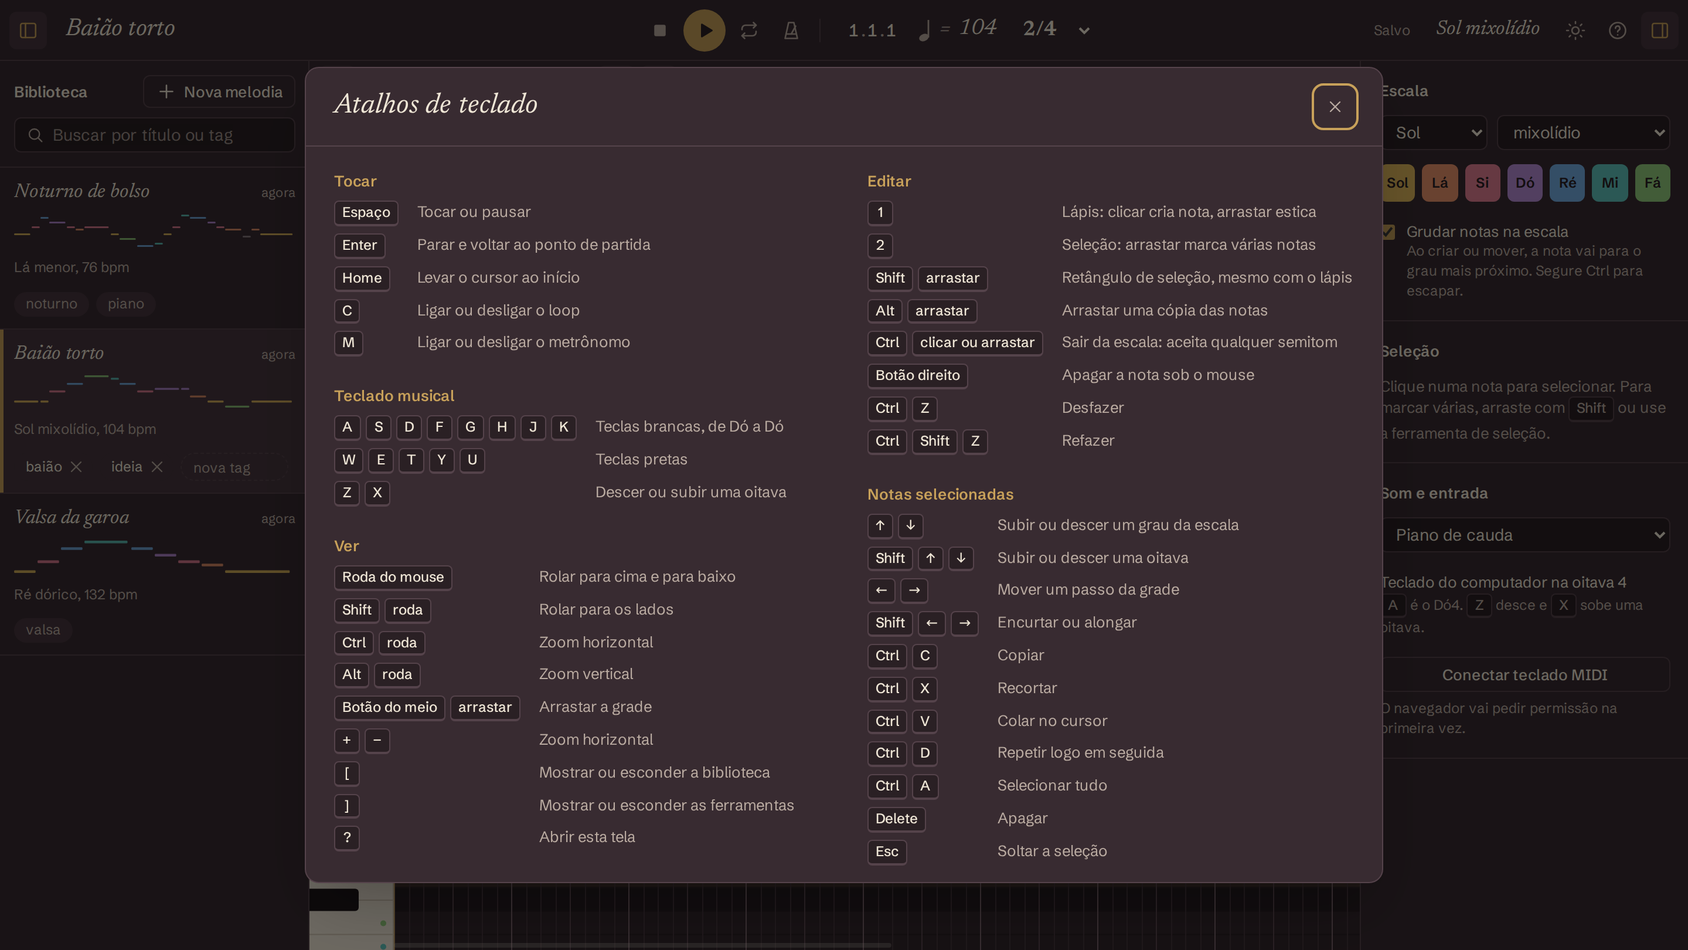
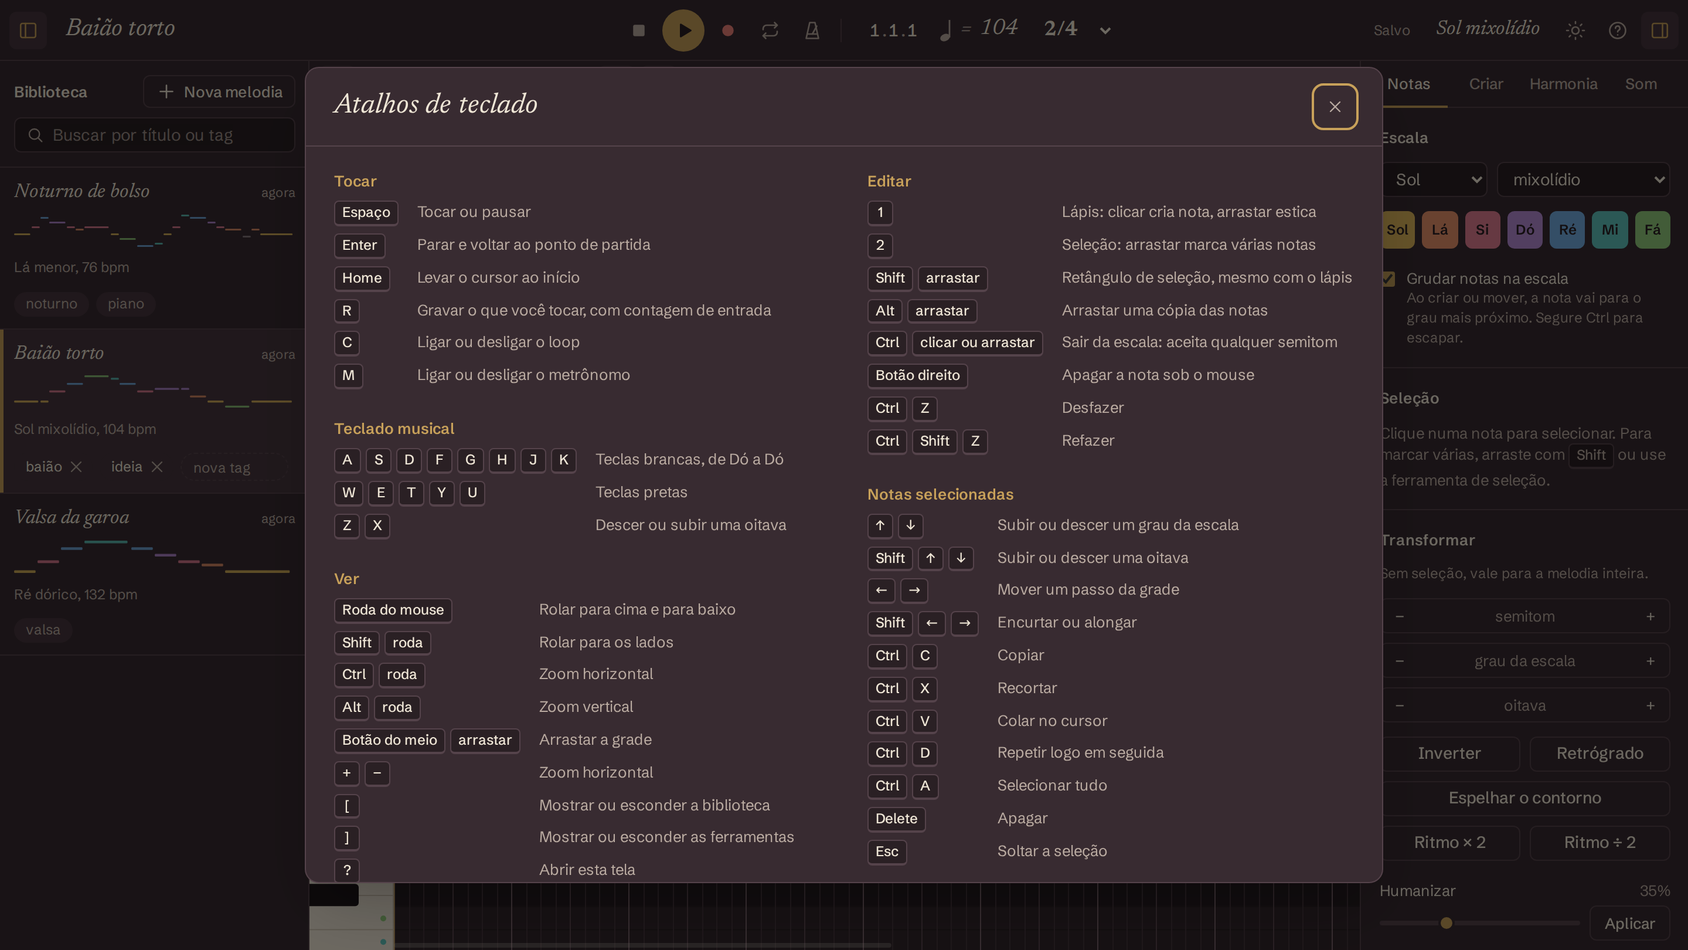
Fase 2 concluída: README, prints e CLAUDE.md atualizados
- README em inglês e português descrevem as ferramentas de criação
- Print principal com acordes, partitura e análise; print da aba Criar
- CLAUDE.md com a arquitetura nova, regras e armadilhas da fase

diff --git a/tests/visual/prints.py b/tests/visual/prints.py
@@ -67,18 +67,26 @@ with sync_playwright() as p:
         page.evaluate(LOAD, m)
         page.wait_for_timeout(900)  # autosave grava na biblioteca
 
-    # 1. tema escuro, tocando: cursor, nota destacada e tecla acesa
-    center_on(page, 70)
-    page.mouse.click(700, 760)  # um clique fora das notas libera o áudio
+    # 1. tema escuro, tocando com acordes e partitura: cursor, tecla acesa, cifra e figura da vez
+    page.mouse.click(700, 500)  # um clique libera o áudio
     page.keyboard.press("Control+z")
     page.wait_for_function("window.__melodias.transport.getState().loadingInstrument === null", timeout=15000)
     page.keyboard.press("Escape")
-    page.mouse.move(1300, 780)
+    page.get_by_role("tab", name="Harmonia").click()
+    page.get_by_role("button", name="Sugerir acordes para a melodia").click()
+    page.get_by_role("button", name="Partitura").click()
+    page.wait_for_selector(".score svg .abcjs-note", timeout=15000)
+    center_on(page, 70)
+    page.mouse.move(1300, 500)
     page.keyboard.press("Space")
     page.wait_for_function("window.__melodias.engine.position() > 480 * 9.72", timeout=20000)
     page.screenshot(path=str(OUT / "estudio-escuro.png"))
     page.keyboard.press("Enter")
     page.keyboard.press("Enter")
+    page.get_by_role("button", name="Partitura").click()
+    page.get_by_role("button", name="Tirar os acordes").click()
+    page.get_by_role("tab", name="Notas").click()
+    center_on(page, 70)
     page.wait_for_timeout(300)
 
     # 2. tema claro, com um trecho selecionado
@@ -90,14 +98,16 @@ with sync_playwright() as p:
     page.evaluate("window.__melodias.doc.getState().select([])")
     page.get_by_label("Alternar tema claro e escuro").click()
 
-    # 3. outra escala: as linhas e as cores acompanham o modo
+    # 3. aba Criar: gerador de ideias, variações, gravar e cantarolar
     page.locator("aside[aria-label=Biblioteca] li", has_text="Baião torto").click()
     page.wait_for_timeout(400)
     center_on(page, 71)
+    page.get_by_role("tab", name="Criar").click()
     x = page.evaluate("window.__roll.pointFor(480 * 2.3, 77)")
     page.mouse.move(x["x"], x["y"])
     page.wait_for_timeout(300)
-    page.screenshot(path=str(OUT / "sol-mixolidio.png"))
+    page.screenshot(path=str(OUT / "criar.png"))
+    page.get_by_role("tab", name="Notas").click()
 
     # 4. atalhos
     page.keyboard.press("?")

diff --git a/CLAUDE.md b/CLAUDE.md
@@ -8,7 +8,7 @@ Converse com o usuário em português. Textos da interface também em português
 
 ## Estado atual
 
-Fase 1 concluída: piano roll editável, snap na escala, teclado virtual, teclado do computador, Web MIDI, transport com loop e metrônomo, desfazer/refazer, atalhos e biblioteca com autosave. Próxima: Fase 2 (ferramentas de criação).
+Fases 1 e 2 concluídas. Além do piano roll, do transport e da biblioteca, já existem: transformações, gravar tocando, cantarolar (ao vivo e por transcrição), gerador de ideias e variações, acordes com acompanhamento, análise e partitura. Próxima: Fase 3 (exportar, compartilhar, extras).
 
 ## Stack
 
@@ -17,7 +17,8 @@ Fase 1 concluída: piano roll editável, snap na escala, teclado virtual, teclad
 - Tone.js: motor de áudio, transport, BPM, metrônomo, sintetizadores, `Tone.Sampler` para o piano.
 - tonal: teoria musical (notas, intervalos, escalas, modos, acordes).
 - Dexie (IndexedDB): biblioteca local de melodias.
-- Fases seguintes: @tonejs/midi, abcjs, pitchy, @spotify/basic-pitch (lazy), @magenta/music (opcional, Web Worker + lazy).
+- abcjs: partitura. pitchy: altura ao vivo pelo microfone. @spotify/basic-pitch (com TensorFlow.js): transcrição de áudio. abcjs e basic-pitch entram por `import()` dinâmico, só quando a pessoa abre a partitura ou transcreve.
+- Fase 3: @tonejs/midi; @magenta/music opcional (Web Worker + lazy).
 - Vitest para lógica musical. Playwright (Python, via skill `webapp-testing`) para conferência visual.
 - Gerenciador de pacotes: npm.
 
@@ -60,19 +61,26 @@ Ficam em `.claude/skills/` e valem para o projeto inteiro:
 ```
 src/
   music/   teoria e operações sobre notas: funções puras, sem React nem Tone
-           types (PPQ, Note, Melody), time (grade, snap, quantização), scale (escala, graus, nomes), notes
+           types, time (grade, quantização), scale (escala, graus, nomes), notes,
+           transform, generate (ideias e variações), chords (tríades, sugestão, acompanhamento),
+           analysis (tonalidade, intervalos), abc (partitura), pitchTrack (voz → notas)
   audio/   engine.ts: o único arquivo que importa o Tone.js
+           mic.ts (microfone + pitchy, contexto próprio só de análise), transcribe.ts (Basic Pitch, lazy)
   input/   teclado do computador (keyboard), Web MIDI (midi, midiMessage)
   store/   Zustand
-           doc (melodia, seleção, histórico), view (ferramenta, grade, zoom, tema; persiste em localStorage),
-           transport (tocando, cursor, loop, metrônomo), library (Dexie + autosave),
-           commands (ações que cruzam stores), bindAudio (estado → motor de áudio)
+           doc (melodia, seleção, histórico), view (preferências; persiste em localStorage),
+           transport (tocando, gravando, cursor, loop), library (Dexie + autosave), hum (microfone),
+           commands e ideas (ações que cruzam stores), recorder (notas ao vivo → melodia),
+           bindAudio (estado → motor de áudio)
   db/      Dexie
-  ui/      componentes React, styles.css (tokens), shortcuts.ts
+  ui/      componentes React, styles.css (tokens), shortcuts.ts, ScorePanel (abcjs)
     pianoroll/  coords (tick ↔ x, altura ↔ y), render (desenho), controller (gestos e laço de quadros), palette
+    tools/      abas do painel de ferramentas: Notas, Criar, Harmonia, Som
 public/
-  samples/piano/  Salamander Grand Piano, CC BY 3.0 (ver LICENCA.md na pasta)
-tests/visual/     scripts Playwright; common.py tem os helpers
+  samples/piano/        Salamander Grand Piano, CC BY 3.0 (ver LICENCA.md na pasta)
+  models/basic-pitch/   modelo de transcrição da Spotify, Apache 2.0
+tests/visual/           roteiros Playwright numerados; common.py tem os helpers;
+                        prints.py gera os prints do README; prod_smoke.py confere o build de produção
 ```
 
 Regras:
@@ -83,6 +91,9 @@ Regras:
 - O piano roll é um controlador fora do React (`PianoRollController`): lê os stores com `getState`/`subscribe` e redesenha por `requestAnimationFrame` só quando algo mudou. Não passe notas, rolagem nem cursor por props ou estado do React.
 - Edições que entram no desfazer passam por `useDoc.edit` (ou `beginGesture` / `live` / `commitGesture` durante um arrasto). Título, tags e instrumento usam `setMeta` e ficam fora do histórico.
 - Em modo dev, `window.__melodias` (stores e engine) e `window.__roll` (controlador, com `pointFor(tick, pitch)`) existem para os testes visuais.
+- Toda nota tocada ao vivo passa por `engine.noteOn` / `noteOff`: é o que acende a tecla e o que o gravador (`store/recorder.ts`) escuta. A voz usa `noteOn(pitch, vel, true)`, que faz tudo isso sem soar.
+- O gravador é ligado antes do `bindAudio` no `App`: ao parar, ele precisa fechar as notas enquanto o transport ainda sabe a posição.
+- Acordes (`melody.chords`) entram no desfazer junto com as notas. O acompanhamento é derivado deles em `music/chords.ts` (`backingNotes`) e tocado por uma voz separada do motor.
 
 ## Modelo de dados
 
@@ -129,13 +140,20 @@ Direção aprovada: o interior de um piano. Interface quieta e quase monocromát
 - Com "grudar na escala" ligado, criar e mover andam por graus; `Ctrl` (ou `Cmd`) deixa a nota sair da escala. A grade de tempo tem o próprio botão.
 - `Alt`+arrastar leva uma cópia. Botão direito apaga. Botão do meio arrasta a grade.
 - Roda: rola; `Shift`+roda: lados; `Ctrl`+roda: zoom horizontal; `Alt`+roda: zoom vertical.
-- Atalhos de letra não podem colidir com as teclas que tocam notas (A W S E D F T G Y H U J K O L P ; e Z X para oitava). Livres hoje: Q R I B N V.
+- Atalhos de letra não podem colidir com as teclas que tocam notas (A W S E D F T G Y H U J K O L P ; e Z X para oitava). Em uso: C (loop), M (metrônomo), R (gravar). Livres: Q I B N V.
+- Gravando, a grade não aceita edição e o teclado só toca notas e controla o transport.
+- A partitura arredonda tudo para semicolcheias: tercinas aparecem aproximadas.
 
 ## Armadilhas já encontradas
 
 - Tone: para tocar a partir de um tick, use `transport.start(undefined, "<tick>i")`. A sequência stop → `ticks = n` → start no mesmo instante às vezes parte do zero.
 - Tone: `transport.ticks` lido direto está adiantado pelo lookahead; a posição do que se ouve é `getTicksAtTime(Tone.immediate())`.
 - Testes Playwright: depois de qualquer coisa que mova o cursor (colar, stop), a grade rola com animação. Espere uns 500 ms antes de calcular um ponto com `pointFor`.
+- Testes Playwright: um clique fora da área visível da grade cai em outro elemento (painel, botão) sem avisar. Mantenha as notas de teste dentro do que cabe na tela.
+- Autosave compara `updatedAt`; por isso o carimbo sempre avança (`touch` em `store/doc.ts`), mesmo com duas mudanças no mesmo milissegundo.
+- Foco: depois de clicar em botão, lista, caixa de seleção ou controle deslizante, o foco é devolvido ao estúdio (`releaseFocus` em `shortcuts.ts`). Sem isso os atalhos param de responder.
+- abcjs trata o clique no SVG inteiro e pinta de vermelho a figura clicada; usamos `selectionColor: 'currentColor'`.
+- Microfone nos testes: `studio(fake_mic=...)` faz o Chromium entregar um WAV como microfone, em laço.
 
 ## Referências estudadas
 
@@ -153,7 +171,7 @@ Direção aprovada: o interior de um piano. Interface quieta e quase monocromát
 - Undo/redo completo e atalhos de teclado, com tela de atalhos em `?`.
 - Biblioteca: salvar, renomear, duplicar, deletar, buscar, tags, autosave.
 
-### Fase 2: ferramentas de criação
+### Fase 2: ferramentas de criação (concluída)
 - Gravar tocando, com metrônomo, contagem e quantização de força ajustável.
 - Cantarolar para criar: ao vivo com pitchy; gravar e transcrever com basic-pitch.
 - Transformações na seleção: transpor (cromático e diatônico), inverter, retrógrado, aumentar/diminuir ritmo, humanizar, espelhar contorno.

diff --git a/README.pt-BR.md b/README.pt-BR.md
@@ -4,7 +4,7 @@ Um estúdio de melodias que roda no navegador. Rascunhe uma ideia no piano roll,
 
 [English](README.md)
 
-![O estúdio tocando uma melodia em Lá menor: notas coloridas por grau da escala, o cursor, uma tecla acesa no teclado lateral e a biblioteca à esquerda](docs/screenshots/estudio-escuro.png)
+![O estúdio tocando uma melodia em Lá menor: notas coloridas por grau da escala, a faixa de cifras com o acorde da vez destacado, a tecla acesa no teclado lateral, a partitura acompanhando e a biblioteca à esquerda](docs/screenshots/estudio-escuro.png)
 
 ## O que tem de diferente
 
@@ -13,20 +13,42 @@ Um estúdio de melodias que roda no navegador. Rascunhe uma ideia no piano roll,
 - **O tempo é guardado em ticks, nunca em segundos.** Mude o andamento ou o compasso e nada quebra.
 - **Funciona offline.** Os samples de piano e as fontes vêm junto com o app.
 
-## O que já dá para fazer
+## O que dá para fazer
+
+**Escrever**
 
 - Piano roll em canvas: clique para criar a nota, arraste para esticar, mova, redimensione, selecione por retângulo, copie e cole, repita, apague, dê zoom nos dois eixos, role com suavidade.
 - 12 tonalidades e 13 escalas e modos (maior, menor, modos gregos, menor harmônica e melódica, pentatônicas, blues, cromática).
 - Grade de quantização: 1/4, 1/8, 1/16, 1/32 e tercinas.
-- Toque com o mouse no teclado lateral, com o teclado do computador (`A S D F…`, como nas DAWs) ou com um teclado MIDI via Web MIDI.
-- Transport: tocar, pausar, parar, região de loop (arraste na régua), andamento, compasso, metrônomo, cursor animado.
 - Desfazer e refazer completos, e a lista de atalhos na tecla `?`.
+
+**Tocar e capturar**
+
+- Toque com o mouse no teclado lateral, com o teclado do computador (`A S D F…`, como nas DAWs) ou com um teclado MIDI via Web MIDI.
+- Grave o que você toca, com contagem de entrada, e quantize depois com força ajustável.
+- Cantarole ou assobie: o app mostra a nota que você está cantando e a afinação, e grava na grade. Ou grave uma frase inteira e deixe o [Basic Pitch](https://github.com/spotify/basic-pitch-ts) transcrever. O modelo roda no navegador; o áudio não sai da sua máquina.
+
+**Achar ideias**
+
+- Gerador de ideias: uma melodia nova dentro da escala, moldada por contorno (arco, sobe, desce, vale, livre), densidade rítmica, tamanho dos saltos e nota de repouso. Não gostou? Gere de novo e ela troca a anterior.
+- Variações: selecione um motivo e receba outro com o mesmo ritmo e intervalos sorteados do próprio motivo (uma pequena cadeia de Markov).
+- Transformações: transpor por semitom, grau ou oitava, inverter, retrógrado, espelhar o contorno, dobrar ou reduzir o ritmo, humanizar.
+
+**Ouvir em contexto**
+
+- Acordes: peça uma sugestão que combine com a melodia, parta de uma progressão conhecida (escrita em graus, então se adapta ao modo) ou edite acorde por acorde. Toque em bloco ou arpejo.
+- Análise: tonalidade mais provável, notas fora da escala, extensão, e um rótulo em cada nota com o nome, o grau ou o intervalo para a nota anterior.
+- Partitura embaixo do piano roll, sincronizada com a reprodução. Clique numa figura da pauta para levar o cursor até ela.
+
+**Guardar**
+
+- Transport: tocar, pausar, parar, região de loop (arraste na régua), andamento, compasso, metrônomo, cursor animado.
 - Biblioteca em IndexedDB: autosave, busca, tags, renomear, duplicar, apagar.
 - Temas escuro e claro. Três timbres: piano de cauda com samples, um sintetizador suave e uma caixinha de música.
 
-| Tema claro | Outro modo: Sol mixolídio |
+| Tema claro | Gerador de ideias, variações, gravação e cantarolar |
 | --- | --- |
-| ![Tema claro com algumas notas selecionadas](docs/screenshots/estudio-claro.png) | ![Melodia em Sol mixolídio com a dica mostrando nome e grau da nota](docs/screenshots/sol-mixolidio.png) |
+| ![Tema claro com algumas notas selecionadas](docs/screenshots/estudio-claro.png) | ![A aba Criar com os controles do gerador de ideias](docs/screenshots/criar.png) |
 
 ![Tela de atalhos de teclado](docs/screenshots/atalhos.png)
 
@@ -62,14 +84,14 @@ python3 -m venv .venv
 
 ## Como é feito
 
-Vite, React, TypeScript, Zustand e Tailwind no app; [Tone.js](https://tonejs.github.io/) no áudio; [tonal](https://github.com/tonaljs/tonal) na teoria musical; [Dexie](https://dexie.org/) na biblioteca.
+Vite, React, TypeScript, Zustand e Tailwind no app; [Tone.js](https://tonejs.github.io/) no áudio; [tonal](https://github.com/tonaljs/tonal) na teoria musical; [Dexie](https://dexie.org/) na biblioteca; [abcjs](https://www.abcjs.net/) na partitura; [pitchy](https://github.com/ianprime0509/pitchy) e Basic Pitch na detecção de altura. As partes pesadas (partitura e transcrição) só carregam quando você abre.
 
 ```
 src/
-  music/   lógica musical pura: ticks, grade, escalas, operações com notas, transformações (com testes)
-  audio/   o motor de áudio, único arquivo que encosta no Tone.js
+  music/   lógica musical pura: ticks, escalas, transformações, gerador, acordes, detecção de tonalidade, notação ABC (156 testes)
+  audio/   o motor de áudio (único arquivo que encosta no Tone.js), microfone e transcrição
   input/   teclado do computador e Web MIDI
-  store/   stores Zustand, comandos, autosave e a ponte entre estado e som
+  store/   stores Zustand, comandos, gravador, autosave e a ponte entre estado e som
   ui/      componentes React e o piano roll em canvas (coords, render, controller)
 ```
 
@@ -80,7 +102,7 @@ O [CLAUDE.md](CLAUDE.md) traz as notas completas de arquitetura, os tokens de de
 ## Roadmap
 
 - [x] Fase 1: piano roll, snap na escala, teclados, transport, desfazer, biblioteca
-- [ ] Fase 2: gravar tocando, cantarolar para criar (detecção de altura), transformações (transpor, inverter, retrógrado, humanizar), gerador de ideias, acompanhamento com acordes, detecção de tonalidade, partitura
+- [x] Fase 2: gravar tocando, cantarolar para criar, transformações, gerador de ideias, acompanhamento com acordes, detecção de tonalidade, partitura
 - [ ] Fase 3: exportar MIDI, WAV e JSON, importar MIDI, compartilhar por link, histórico de versões, efeitos, PWA
 
 ## Adapte do seu jeito
@@ -90,6 +112,7 @@ O código tem licença MIT: use, mude, publique. Issues e pull requests são bem
 Material de terceiros mantém a própria licença:
 
 - Samples de piano: Salamander Grand Piano, de Alexander Holm, [CC BY 3.0](https://creativecommons.org/licenses/by/3.0/). Veja [public/samples/piano/LICENCA.md](public/samples/piano/LICENCA.md).
+- Modelo de transcrição em `public/models/basic-pitch`: Basic Pitch, da Spotify, Apache 2.0.
 - Skills de agente em `.claude/skills`: Anthropic, Apache 2.0.
 - Fontes: Newsreader e Schibsted Grotesk, SIL Open Font License, instaladas pelo npm.
 

diff --git a/README.md b/README.md
@@ -4,7 +4,7 @@ A melody studio that runs in your browser. Sketch a tune on a piano roll, hear i
 
 [Português](README.pt-BR.md)
 
-![The studio playing a melody in A minor: notes colored by scale degree, the playhead, a lit key on the side keyboard and the library on the left](docs/screenshots/estudio-escuro.png)
+![The studio playing a melody in A minor: notes colored by scale degree, a chord lane with the current chord highlighted, the lit key on the side keyboard, sheet music following along and the library on the left](docs/screenshots/estudio-escuro.png)
 
 ## Why it is different
 
@@ -13,22 +13,44 @@ A melody studio that runs in your browser. Sketch a tune on a piano roll, hear i
 - **Time is stored in ticks, never in seconds.** Change the tempo or the time signature and nothing breaks.
 - **It works offline.** The piano samples and the fonts ship with the app.
 
-## What you can do today
+## What you can do
+
+**Write**
 
 - Piano roll on canvas: click to create a note, drag to stretch it, move, resize, box-select, copy and paste, duplicate, delete, zoom on both axes, smooth scrolling.
 - 12 keys and 13 scales and modes (major, minor, the church modes, harmonic and melodic minor, pentatonics, blues, chromatic).
 - Quantization grid: 1/4, 1/8, 1/16, 1/32 and triplets.
-- Play with the mouse on the side keyboard, with your computer keyboard (`A S D F…`, DAW style) or with a MIDI keyboard through Web MIDI.
-- Transport: play, pause, stop, loop region (drag on the ruler), tempo, time signature, metronome, animated playhead.
 - Full undo and redo, plus a shortcut sheet on `?`.
+
+**Play and capture**
+
+- Play with the mouse on the side keyboard, with your computer keyboard (`A S D F…`, DAW style) or with a MIDI keyboard through Web MIDI.
+- Record what you play, with a count-in, and quantize afterwards with adjustable strength.
+- Hum or whistle: the app shows the note you are singing and how in tune it is, and records it into the grid. Or record a whole phrase and let [Basic Pitch](https://github.com/spotify/basic-pitch-ts) transcribe it. The model runs in your browser; audio never leaves your machine.
+
+**Find ideas**
+
+- Idea generator: a new melody inside the scale, shaped by contour (arch, rising, falling, valley, free), rhythmic density, leap size and resting note. Not happy? Generate again and it replaces the last one.
+- Variations: select a motif and get a new one with the same rhythm and intervals drawn from the motif itself (a small Markov chain).
+- Transformations: transpose by semitone, scale degree or octave, invert, retrograde, mirror the contour, double or halve the rhythm, humanize.
+
+**Hear it in context**
+
+- Chords: ask for a suggestion that fits the melody, start from a common progression (written in degrees, so it adapts to the mode) or edit chord by chord. Play them as blocks or arpeggios.
+- Analysis: most likely key, notes outside the scale, range, and a label on every note showing its name, degree or interval from the previous note.
+- Sheet music below the piano roll, in sync with playback. Click a note on the staff to move the cursor there.
+
+**Keep**
+
+- Transport: play, pause, stop, loop region (drag on the ruler), tempo, time signature, metronome, animated playhead.
 - Library in IndexedDB: autosave, search, tags, rename, duplicate, delete.
 - Dark and light themes. Three sounds: sampled grand piano, a soft synth and a music box.
 
 The interface is in Brazilian Portuguese for now. Translations are welcome.
 
-| Light theme | Another mode: G Mixolydian |
+| Light theme | Idea generator, variations, recording and humming |
 | --- | --- |
-| ![Light theme with a few notes selected](docs/screenshots/estudio-claro.png) | ![A melody in G Mixolydian with the tooltip showing note name and degree](docs/screenshots/sol-mixolidio.png) |
+| ![Light theme with a few notes selected](docs/screenshots/estudio-claro.png) | ![The Create tab with the idea generator controls](docs/screenshots/criar.png) |
 
 ![Keyboard shortcut sheet](docs/screenshots/atalhos.png)
 
@@ -64,14 +86,14 @@ python3 -m venv .venv
 
 ## How it is built
 
-Vite, React, TypeScript, Zustand and Tailwind for the app; [Tone.js](https://tonejs.github.io/) for audio; [tonal](https://github.com/tonaljs/tonal) for music theory; [Dexie](https://dexie.org/) for the library.
+Vite, React, TypeScript, Zustand and Tailwind for the app; [Tone.js](https://tonejs.github.io/) for audio; [tonal](https://github.com/tonaljs/tonal) for music theory; [Dexie](https://dexie.org/) for the library; [abcjs](https://www.abcjs.net/) for sheet music; [pitchy](https://github.com/ianprime0509/pitchy) and Basic Pitch for pitch detection. The heavy parts (sheet music and transcription) load only when you open them.
 
 ```
 src/
-  music/   pure music logic: ticks, grid, scales, note operations, transformations (unit tested)
-  audio/   the audio engine, the only file that touches Tone.js
+  music/   pure music logic: ticks, scales, transformations, generator, chords, key detection, ABC notation (156 unit tests)
+  audio/   the audio engine (the only file that touches Tone.js), microphone and transcription
   input/   computer keyboard and Web MIDI
-  store/   Zustand stores, commands, autosave, and the bridge from state to sound
+  store/   Zustand stores, commands, recorder, autosave, and the bridge from state to sound
   ui/      React components and the canvas piano roll (coords, render, controller)
 ```
 
@@ -82,7 +104,7 @@ The piano roll is a plain controller outside React. It reads the stores, redraws
 ## Roadmap
 
 - [x] Phase 1: piano roll, scale snapping, keyboards, transport, undo, library
-- [ ] Phase 2: record what you play, hum to create (pitch detection), transformations (transpose, invert, retrograde, humanize), idea generator, chord accompaniment, key detection, sheet music view
+- [x] Phase 2: record what you play, hum to create, transformations, idea generator, chord accompaniment, key detection, sheet music
 - [ ] Phase 3: MIDI, WAV and JSON export, MIDI import, share by link, version history, effects, PWA
 
 ## Make it yours
@@ -92,6 +114,7 @@ The code is MIT licensed: use it, change it, ship it. Issues and pull requests a
 Third-party material keeps its own license:
 
 - Piano samples: Salamander Grand Piano by Alexander Holm, [CC BY 3.0](https://creativecommons.org/licenses/by/3.0/). See [public/samples/piano/LICENCA.md](public/samples/piano/LICENCA.md).
+- Transcription model in `public/models/basic-pitch`: Spotify's Basic Pitch, Apache 2.0.
 - Agent skills in `.claude/skills`: Anthropic, Apache 2.0.
 - Fonts: Newsreader and Schibsted Grotesk, SIL Open Font License, installed from npm.
 
